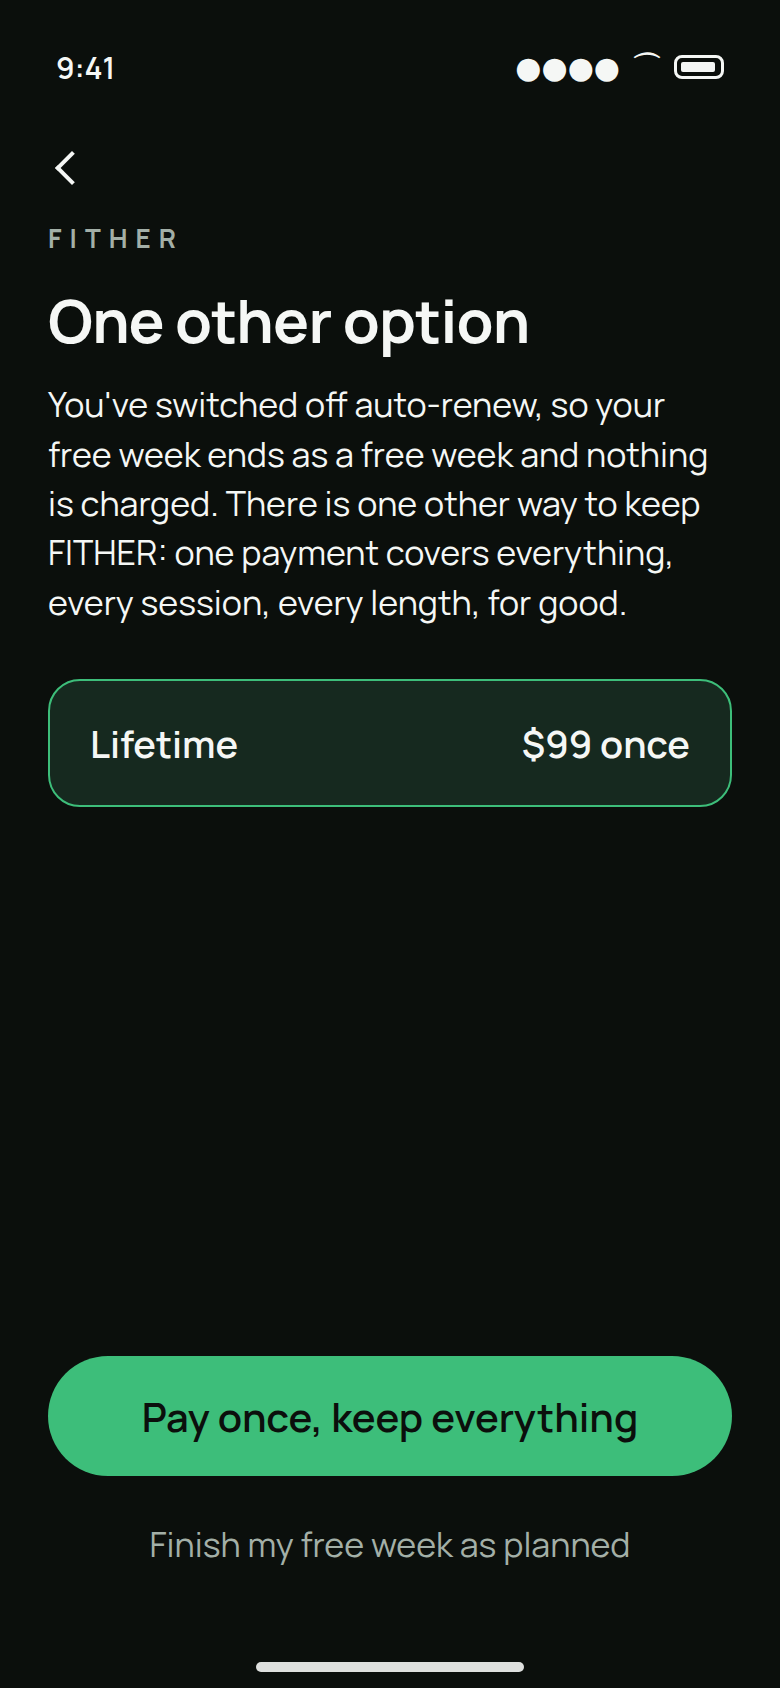
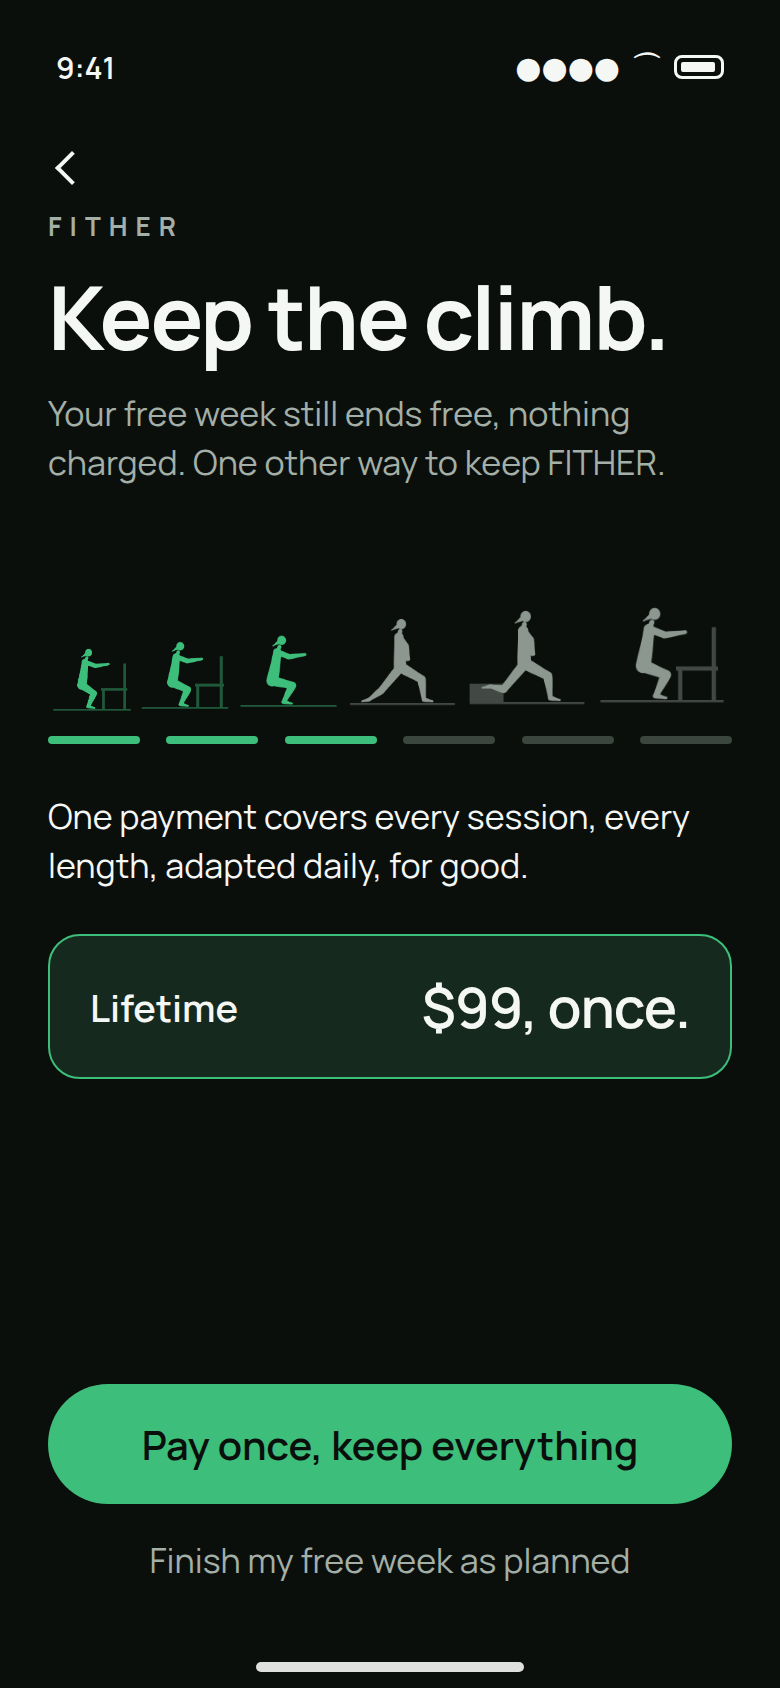
WIP: lifetime offer in the paywall's shape

Changed region(s): [[0.0615, 0.1232, 0.9538, 0.5237], [0.0615, 0.8009, 0.9538, 0.955], [0.0615, 0.5545, 0.9538, 0.6469]]

diff --git a/docs/design/mockups/lifetime-offer.html b/docs/design/mockups/lifetime-offer.html
@@ -1,31 +1,27 @@
 <!doctype html><html><head><meta charset="utf-8"><title>Lifetime</title><link rel="stylesheet" href="tokens.css"><link rel="stylesheet" href="_rows.css">
 <style>
-.h { margin-top: 12px; margin-bottom: 20px; }
-.tile { background: var(--surface); border: 1px solid var(--line); border-radius: var(--r-card); padding: 20px; margin-bottom: 14px; }
-.tile .caption { margin-bottom: 14px; }
-.prow { display: flex; align-items: center; gap: 14px; margin-bottom: 12px; }
-.prow .name { width: 82px; font-size: 15px; color: var(--ink-soft); font-weight: 500; }
-.prow .track { flex: 1; }
-.prow .tier { width: 84px; text-align: right; font-size: 13px; color: var(--ink-soft); }
-.big { font-size: 34px; font-weight: 700; letter-spacing: -0.6px; line-height: 1.1; }
-.sub { color: var(--ink-soft); font-size: 15px; margin-top: 6px; }
-.orow { display: flex; align-items: center; justify-content: space-between; min-height: 52px; padding: 0 4px; font-size: 17px; border-top: 1px solid var(--line); }
-.orow:first-of-type { border-top: 0; }
-.orow .ck { color: var(--accent); font-weight: 700; }
-.chips { display: flex; flex-wrap: wrap; gap: 8px; }
-.chips span { padding: 8px 14px; border-radius: 999px; border: 1px solid var(--line); font-size: 15px; font-weight: 500; }
-.chips span.sel { background: var(--accent-soft); border-color: var(--accent); }
-.scroll { overflow: hidden; flex: 1; }
-.foot { text-align: center; color: var(--ink-soft); font-size: 13px; margin: 8px 0 6px; }
-</style>
-<style>.plan { padding: 18px 20px; border: 1px solid var(--accent); border-radius: var(--r-card); background: var(--accent-soft); display:flex; justify-content:space-between; font-size:19px; font-weight:600; }</style></head><body><div class="phone"><div class="statusbar"><span>9:41</span><span class="right"><span>●●●●</span><span>⌒</span><span class="batt"></span></span></div>
+.lh { letter-spacing: 4px; font-weight: 700; font-size: 13px; margin-top: 14px; }
+.display { font-size: 44px; margin-top: 12px; }
+.lead { margin-top: 12px; max-width: 340px; }
+.ladder { display: flex; align-items: flex-end; justify-content: space-between; margin: 30px 0 6px; height: 88px; }
+.ladder span { width: 50px; height: 50px; background: var(--ink-soft); opacity: .85; -webkit-mask: var(--m) center/contain no-repeat; mask: var(--m) center/contain no-repeat; }
+.ladder span.on { background: var(--accent); opacity: 1; }
+.ladder span:nth-child(2) { height: 56px; width: 56px; } .ladder span:nth-child(3) { height: 62px; width: 62px; } .ladder span:nth-child(4) { height: 68px; width: 68px; } .ladder span:nth-child(5) { height: 74px; width: 74px; } .ladder span:nth-child(6) { height: 80px; width: 80px; }
+.tiers { display: flex; justify-content: space-between; } .tiers i { width: 46px; height: 4px; border-radius: 2px; background: var(--rail); } .tiers i.on { background: var(--accent); }
+.body { margin-top: 24px; max-width: 340px; }
+.price { display: flex; justify-content: space-between; align-items: center; padding: 16px 20px; border: 1px solid var(--accent); border-radius: var(--r-card); background: var(--accent-soft); font-size: 19px; font-weight: 600; margin-top: 22px; }
+.price .big { font-size: 28px; letter-spacing: -0.5px; }
+.bottom { padding-bottom: 8px; gap: 6px; }
+</style></head><body><div class="phone"><div class="statusbar"><span>9:41</span><span class="right"><span>●●●●</span><span>⌒</span><span class="batt"></span></span></div>
 <div class="screen">
   <div class="rail"><span class="chevron"></span></div>
-  <div class="caption" style="letter-spacing:4px;font-weight:700;margin-top:20px">FITHER</div>
-  <div class="title" style="margin:14px 0 12px">One other option</div>
-  <div class="body" style="max-width:340px">You've switched off auto-renew, so your free week ends as a free week and nothing is charged. There is one other way to keep FITHER: one payment covers everything, every session, every length, for good.</div>
-  <div style="height:26px"></div>
-  <div class="plan"><span>Lifetime</span><span>$99 once</span></div>
+  <div class="caption lh">FITHER</div>
+  <div class="display">Keep the climb.</div>
+  <div class="body-soft lead">Your free week still ends free, nothing charged. One other way to keep FITHER.</div>
+  <div class="ladder"><span class="on" style="--m:url('../../../app/assets/movements/supported-sit-to-stand.png')"></span><span class="on" style="--m:url('../../../app/assets/movements/sit-to-stand.png')"></span><span class="on" style="--m:url('../../../app/assets/movements/air-squat.png')"></span><span class="" style="--m:url('../../../app/assets/movements/split-squat.png')"></span><span class="" style="--m:url('../../../app/assets/movements/elevated-split-squat.png')"></span><span class="" style="--m:url('../../../app/assets/movements/single-leg-sit-to-stand.png')"></span></div>
+  <div class="tiers"><i class="on"></i><i class="on"></i><i class="on"></i><i></i><i></i><i></i></div>
+  <div class="body">One payment covers every session, every length, adapted daily, for good.</div>
+  <div class="price"><span>Lifetime</span><span class="big">$99, once.</span></div>
   <div class="bottom">
     <div class="btn btn-primary">Pay once, keep everything</div>
     <div class="btn btn-quiet">Finish my free week as planned</div>
